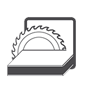
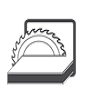
[update] set image in round circular ...

diff --git a/seeking/scripts/script.js b/seeking/scripts/script.js
@@ -59,6 +59,8 @@ var codeStationJq = {
 				gal.setPage();
 				gal.ply_pus();
 				agy.scrll();
+				prcss.pickImg();
+				prcss.rotat();
 				clearInterval(It);
 				acp = 0;
 			}, 1000);
@@ -509,14 +511,25 @@ var codeStationJq = {
 				setscroll(this.path, this.hgt, $(this.path).height(),this.veiw);
 			}
 		};
+
 		var prcss = {
-			boxs 	: '#disk div',
-			radius 	: '',
-			forEach : function (arr, fn) {
+			boxs: '#disk div',
+			radius: 170,
+			forEach: function (arr, fn) {
 				return Array.prototype.forEach.call(arr, fn);
 			},
-			rotat: function () {//attach items in disk and rotating
-
+			pickImg: function () {
+				this.forEach(this.boxs, function (box, j){
+					$(prcss.boxs).eq(j).css('background-image', 'url(./images/process/'+ parseInt(j+1) +'.png)');
+				});
+			},
+			rotat: function () { //attach items in disk and rotating
+				this.forEach(this.boxs, function (box, i) {
+					var teta = 2 * Math.PI / prcss.boxs.length * i,
+						x = ((Math.cos(teta)) + 1) * prcss.radius,
+						y = ((Math.sin(teta)) + 1) * prcss.radius;
+					$(prcss.boxs).eq(i).css("-webkit-transform", "translate(" + x + "px, " + y + "px)");
+				});
 			}
 		};
 	}

diff --git a/seeking/style.less b/seeking/style.less
@@ -1,4 +1,4 @@
-/*	
+	
 	div, section {
 		outline: 1px dotted red;
 	}
@@ -11,7 +11,7 @@
 	body > .container, header, footer {
 		outline: 3px dashed magenta;
 	}
-*/
+
 body { > section {
 		min-height: 595px;
 		margin-top: 15px;
@@ -654,6 +654,12 @@ section.container { > .top {
 					height: 440px;
 					margin:68px 185px 0px 0px;
 					background: url(images/disk.png) no-repeat ;
+					position: relative;
+					div {
+						width: 100px;
+						height: 100px;
+						position: absolute;
+					}
 				}
 			}
 		}
